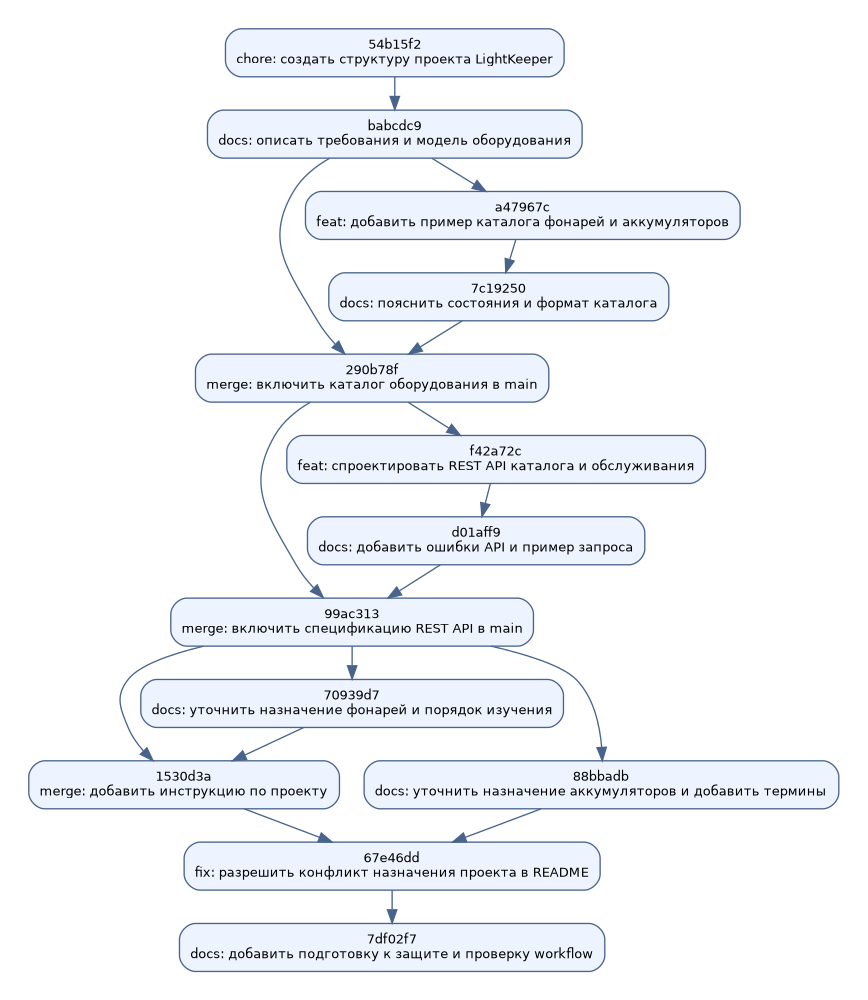
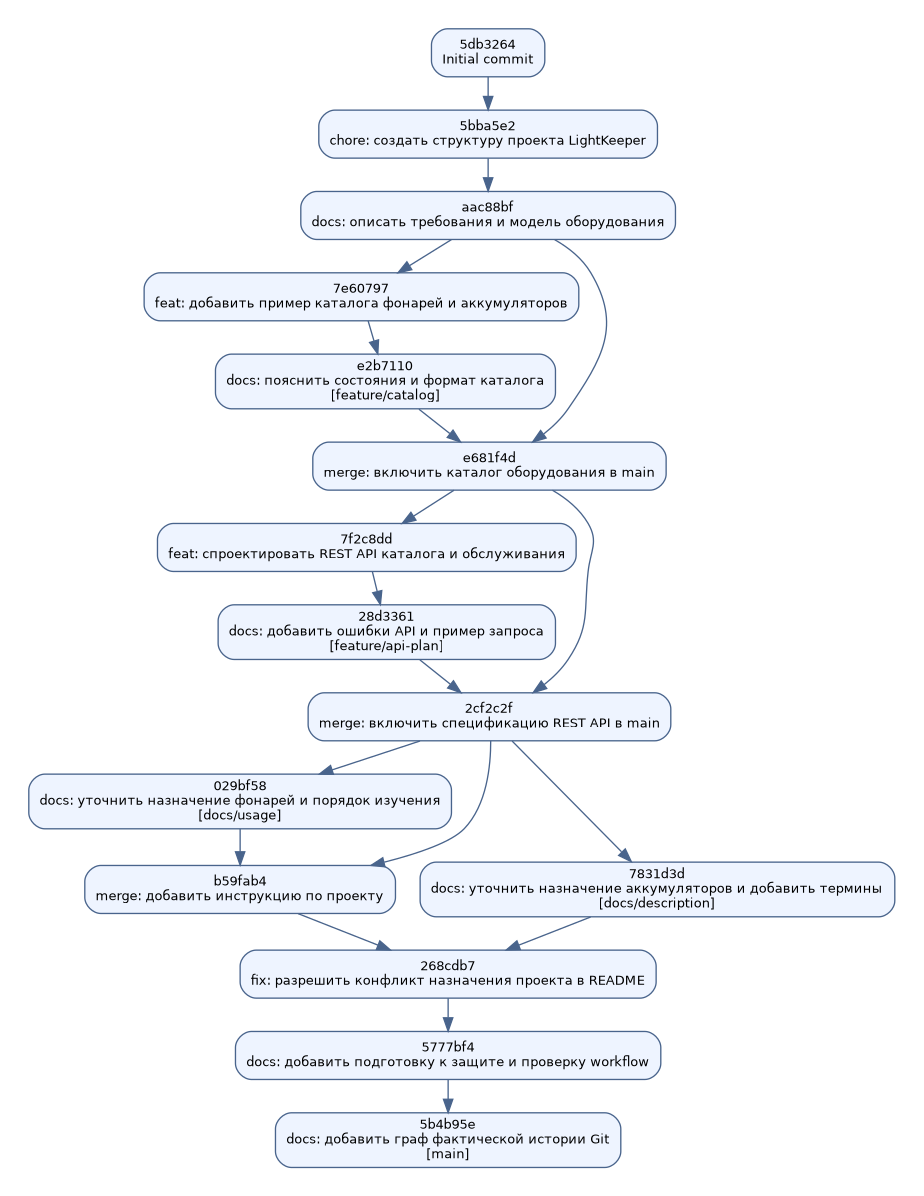
docs: добавить ссылки GitHub и проверку опубликованной истории

Changed region(s): [[0.0311, 0.0, 0.9643, 0.992], [0.2488, 0.031, 0.3111, 0.062]]

diff --git a/docs/history.md b/docs/history.md
@@ -1,15 +1,19 @@
-# История до добавления графа
+# Опубликованная история
 
-- 7e60797 feat: добавить пример каталога фонарей и аккумуляторов
+- 5db3264 Initial commit
 - 5bba5e2 chore: создать структуру проекта LightKeeper
-- 7f2c8dd feat: спроектировать REST API каталога и обслуживания
-- e2b7110 docs: пояснить состояния и формат каталога
 - aac88bf docs: описать требования и модель оборудования
-- 28d3361 docs: добавить ошибки API и пример запроса
+- 7e60797 feat: добавить пример каталога фонарей и аккумуляторов
+- e2b7110 docs: пояснить состояния и формат каталога
 - e681f4d merge: включить каталог оборудования в main
-- 029bf58 docs: уточнить назначение фонарей и порядок изучения
+- 7f2c8dd feat: спроектировать REST API каталога и обслуживания
+- 28d3361 docs: добавить ошибки API и пример запроса
 - 2cf2c2f merge: включить спецификацию REST API в main
-- 7831d3d docs: уточнить назначение аккумуляторов и добавить термины
+- 029bf58 docs: уточнить назначение фонарей и порядок изучения
 - b59fab4 merge: добавить инструкцию по проекту
+- 7831d3d docs: уточнить назначение аккумуляторов и добавить термины
 - 268cdb7 fix: разрешить конфликт назначения проекта в README
 - 5777bf4 docs: добавить подготовку к защите и проверку workflow
+- 5b4b95e docs: добавить граф фактической истории Git
+
+Список и граф зафиксированы до коммита обновления ссылок и доказательств публикации.

diff --git a/README.md b/README.md
@@ -43,11 +43,14 @@
 - [Проверка результата](docs/verification.md).
 - [Локальный граф истории](docs/git-graph.png) — схема по фактическим родителям коммитов.
 
-## Публикация и сдача
+## Публичный репозиторий и сдача
 
-Репозиторий подготовлен локально. Для сдачи требуется опубликовать `main`
-и все четыре рабочие ветки в публичном репозитории GitHub.
-После публикации открыть Insights → Network и проверить граф;
-вместо скриншота можно сдать ссылку на GitHub Network, как разрешено заданием.
-Ссылку в README добавляет включённый в архив сценарий `publish.ps1`.
-Сам архив не заменяет обязательную публичную ссылку для сдачи.
+- [Репозиторий GitHub](https://github.com/Timofey0011-anchous/lightkeeper-devsecops).
+- [Граф веток GitHub Network](https://github.com/Timofey0011-anchous/lightkeeper-devsecops/network).
+- [Все ветки](https://github.com/Timofey0011-anchous/lightkeeper-devsecops/branches).
+- [История main](https://github.com/Timofey0011-anchous/lightkeeper-devsecops/commits/main/).
+- [Коммит разрешения конфликта](https://github.com/Timofey0011-anchous/lightkeeper-devsecops/commit/268cdb7ff02107b1f443735139b911326d09afec).
+
+Все пять веток опубликованы. Для сдачи отправляется ссылка на репозиторий.
+Network формируется GitHub; локальная схема истории также доступна
+в `docs/git-graph.png`.

diff --git a/git-conflict.md b/git-conflict.md
@@ -49,5 +49,7 @@ git log --graph --oneline --all --decorate
 
 Исходный вывод команды, состояние `UU README.md`, три стадии индекса
 и файл с маркерами сохранены в `docs/evidence/conflict-before.txt`.
+После публикации конфликт повторно воспроизведён в свежем клоне
+из родителей опубликованного merge-коммита; файл содержит вывод этой проверки.
 `--remerge-diff` в современных версиях Git восстанавливает конфликт
 из родителей и показывает, как merge-коммит его разрешил.
